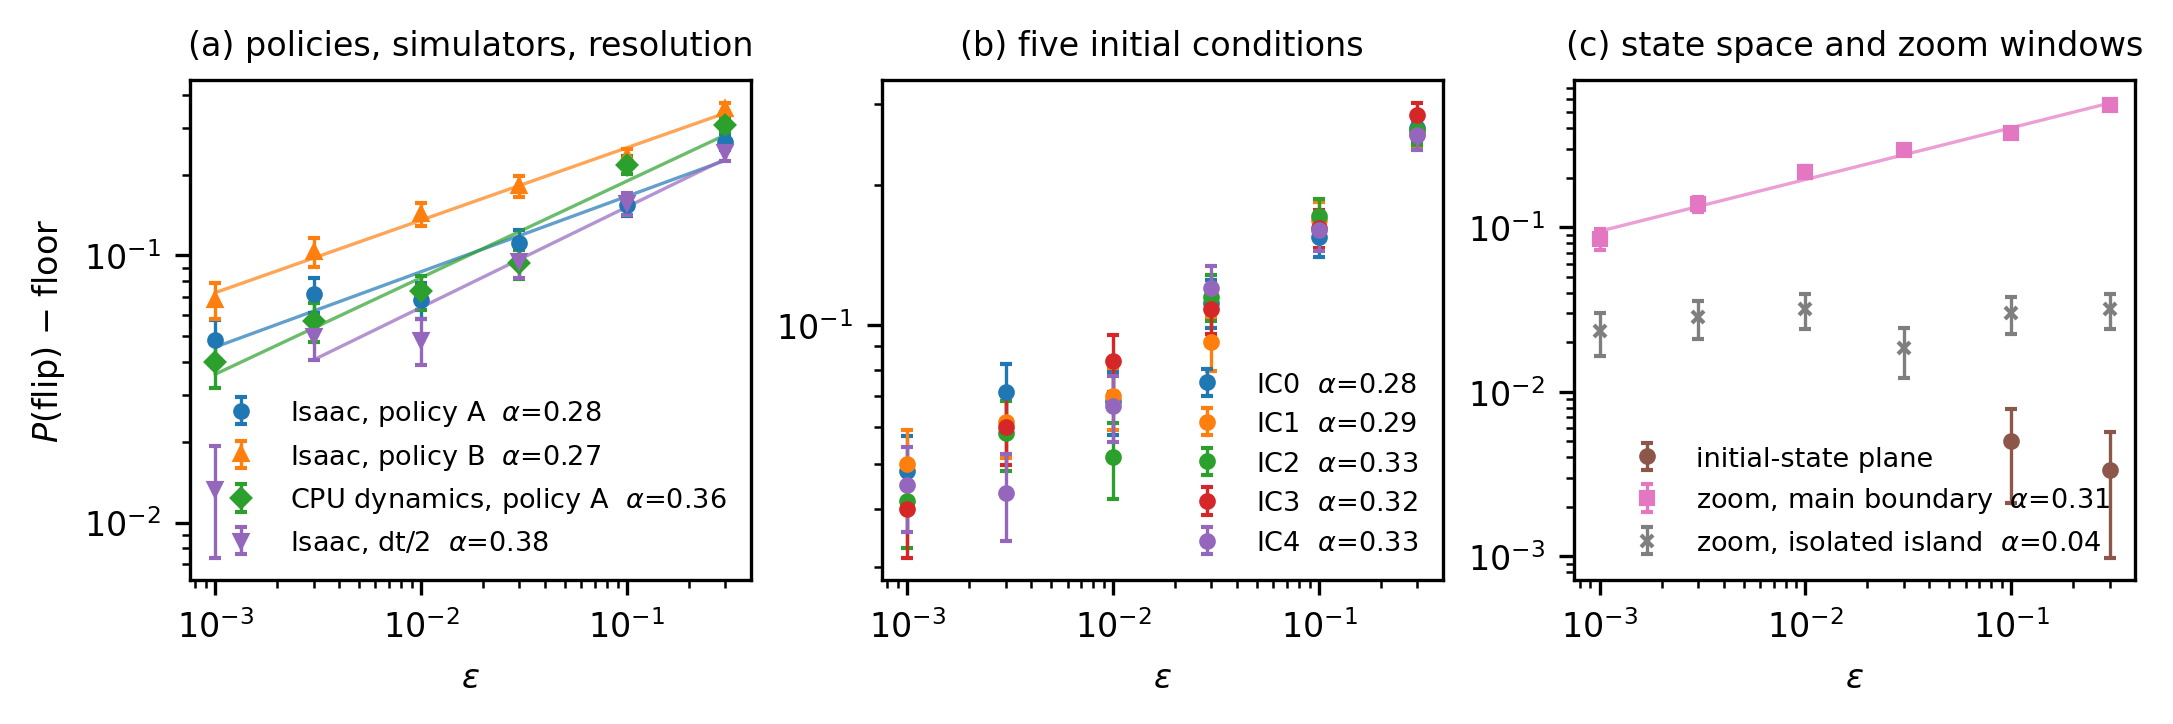
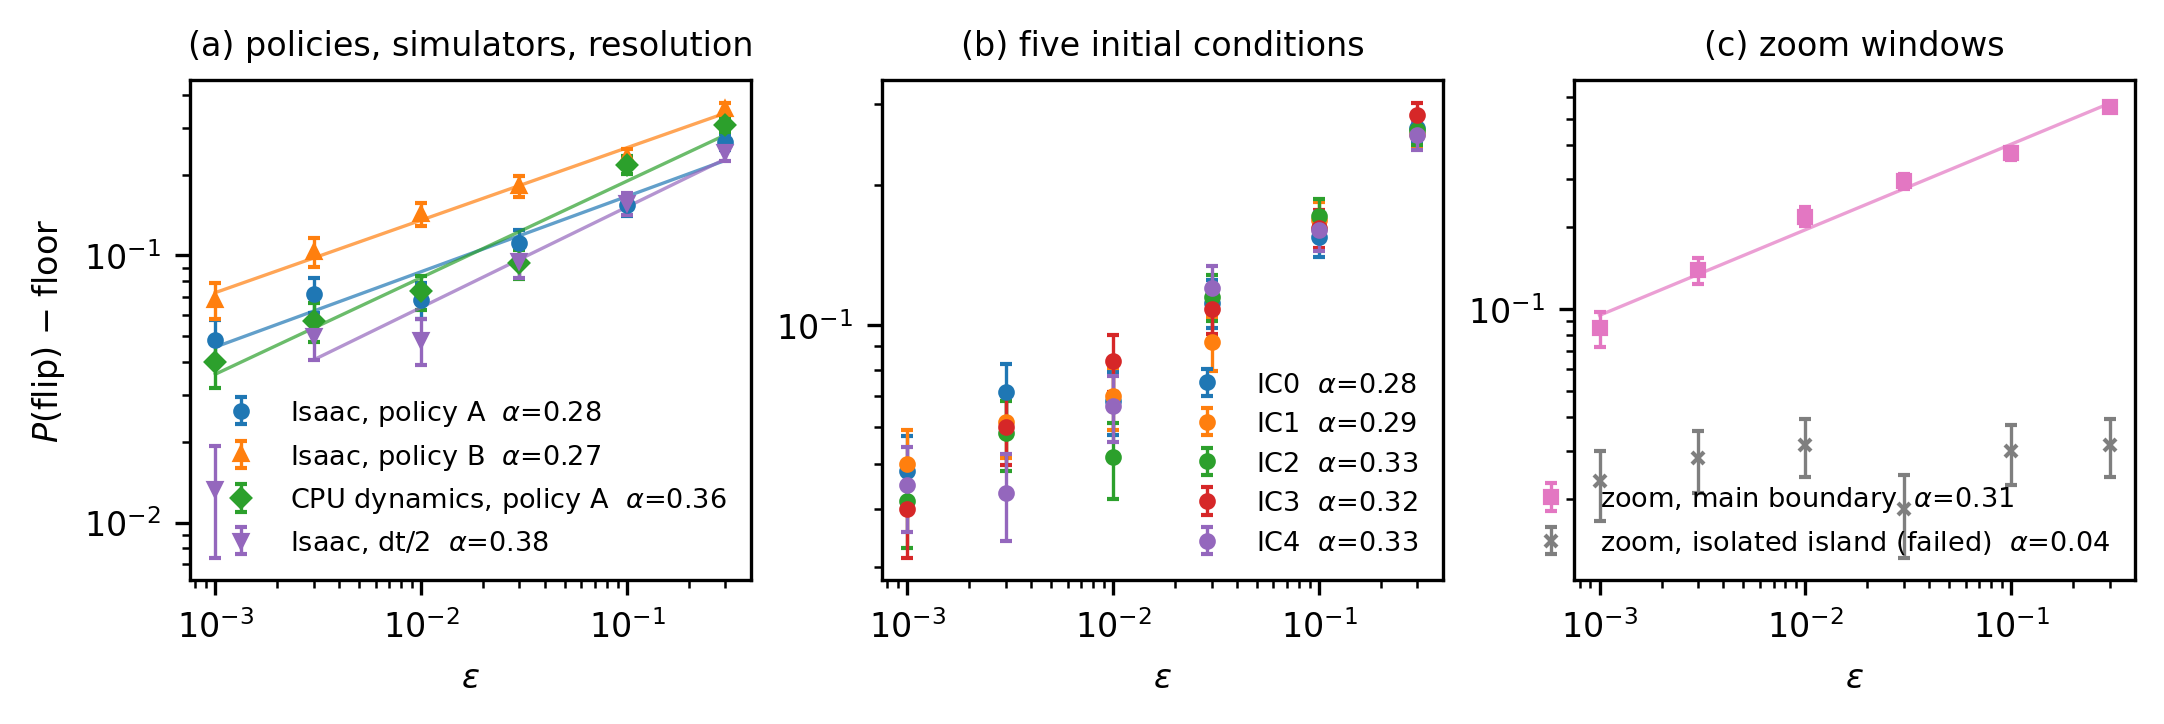
Replication figure: drop the uninformative initial-state curve to match the text

diff --git a/tools/fractal_figures.py b/tools/fractal_figures.py
@@ -120,10 +120,9 @@ def main():
         curve(ax, "R2_ic%d_pairs.json" % i, "IC%d" % i, "C%d" % i, "o", fit=False)
     ax.set_title("(b) five initial conditions")
     ax = axs[2]
-    curve(ax, "R3_state_pairs.json", "initial-state plane", "C5", "o")
     curve(ax, "pairs_zoomZ2.json", "zoom, main boundary", "C6", "s")
-    curve(ax, "pairs_zoom.json", "zoom, isolated island", "C7", "x", fit=False)
-    ax.set_title("(c) state space and zoom windows")
+    curve(ax, "pairs_zoom.json", "zoom, isolated island (failed)", "C7", "x", fit=False)
+    ax.set_title("(c) zoom windows")
     for ax in axs:
         ax.set_xscale("log"); ax.set_yscale("log")
         ax.set_xlabel("$\\epsilon$")
